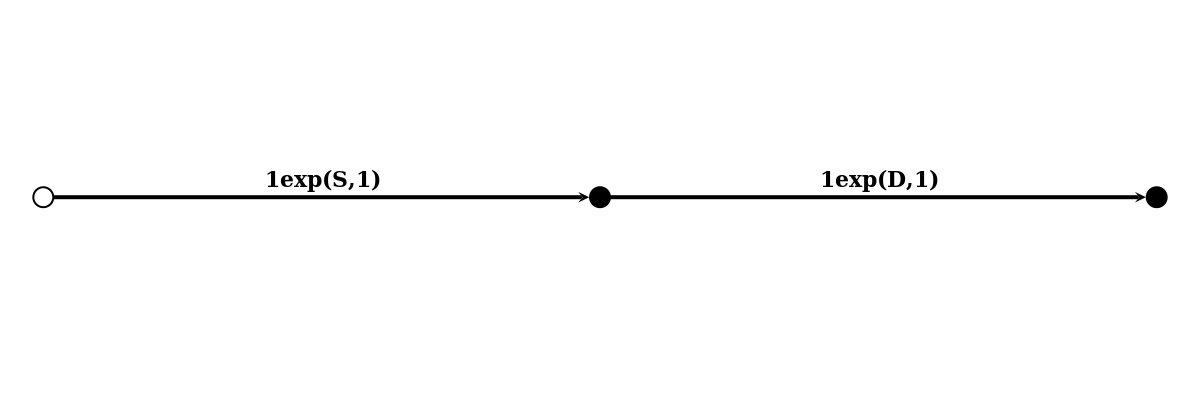
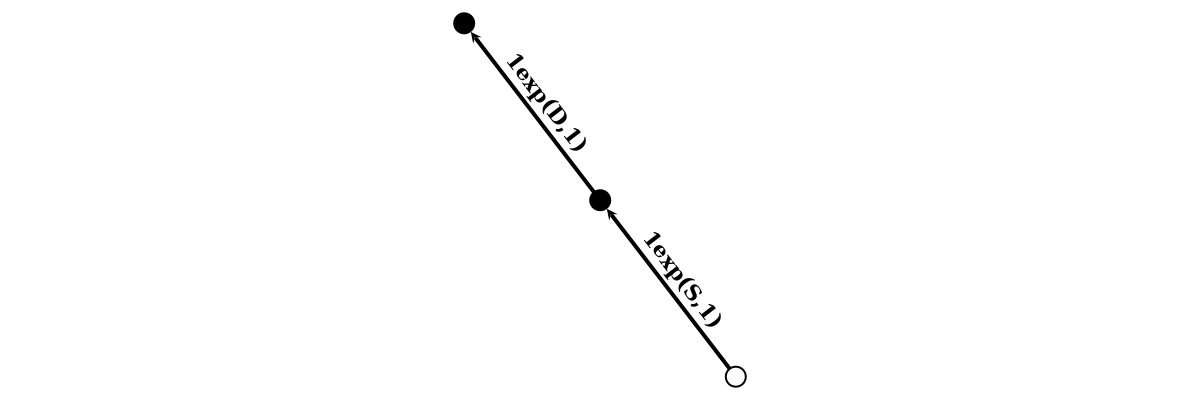
Small adjustments made

Changed region(s): [[0.0308, 0.12, 0.9867, 0.84], [0.5858, 0.84, 0.6167, 0.93], [0.37, 0.03, 0.4008, 0.12]]

diff --git a/KhT.py b/KhT.py
@@ -41,6 +41,10 @@ from itertools import groupby
 from itertools import product
 import itertools as itertools
 import numpy as np
+from graph_tool.all import *
+import math
+import cairo
+from IPython.display import IFrame
 
 ###########################
 ###########################
@@ -175,7 +179,6 @@ def components(clt1,clt2):
 def arc_to_involution(pairs):
     """convert a list of pairs of TEIs into an involution."""
     return [x[1] for x in sorted(pairs+[pair[::-1] for pair in pairs])]
-
 
 class Cobordism(object):
     """A cobordism from a crossingless tangle clt1=front to another clt2=back consists of 
@@ -390,7 +393,10 @@ class ChainComplex(object):
 # the first element is D if the morphism is a power of D, and S if it is a power of S
 # the second element is the power of the corresponding morphism
 # the third element is the coefficient of the morphism
+# Requires Cob to be a cobordism between 4 ended tangles
 def CobordismToDS(Cob):
+    if Cob.front.total !=2 or Cob.back.total !=2:
+        raise Exception("Cobordism to convert to DS is not between 4-ended tangles")
     DS = [] 
     for elem in Cob.decos:
         if len(elem) == 3: # elem is H^k S
@@ -407,7 +413,7 @@ def CobordismToDS(Cob):
                     break
             else:
                 DS.append(["D", elem[0]+1, elem[3]]) #otherwise add dot
-        else: # elem is H^k times id
+        elif len(elem) == 4 and elem[0] != 0: # elem is H^k times id
             for ds in DS:
                 if ds[0] == "S" and ds[1] == 2*elem[0]: #check if saddle part is already there
                     ds[2] += elem[3]
@@ -420,14 +426,17 @@ def CobordismToDS(Cob):
                     break
             else:
                 DS.append(["D", elem[0], elem[3]]) #otherwise add dot part
+        else: #elem is id, elem should be [0, 0, 0, n]
+            for ds in DS:
+                if ds[0] == "S" and ds[1] == 0: #check if id is already there
+                    ds[2] += elem[3]
+                    break
+            else:
+                DS.append(["S", 0, elem[3]]) #otherwise add id
     return DS
+        
 
 # graphical output for a crossingless tangle
-
-import math
-import cairo
-from IPython.display import IFrame
-
 
 def draw_tangle_ends(posx,posy,clt,h,ctx):
     
@@ -598,7 +607,7 @@ def DrawFourEndedChainComplex(complex, filename):
             print(complex.elements[i].arcs[0])
             raise Exception("CLT to label vertex is not a horizontal or vertical CLT")
     
-        Position[g.vertex(i)] = [50*(2*i+1), 200]
+        #Position[g.vertex(i)] = [50*(2*i+1), 200]
     
     Edge_labeling = g.new_edge_property("string") # construct edge labels with linear combinations of powers of S and D
     for i, j in itertools.product(range(0, size), range(0,size)):
@@ -611,7 +620,7 @@ def DrawFourEndedChainComplex(complex, filename):
                 if ds[2] != 0:
                     Edge_labeling[g.edge(i,j)] += str(ds[2]) + "exp(" + ds[0] + "," + str(ds[1]) +")"
 
-    graph_draw(g, pos = Position, vertex_color = "black", vertex_fill_color = Vertex_labeling, vertex_size = 20,\
+    graph_draw(g, vertex_color = "black", vertex_fill_color = Vertex_labeling, vertex_size = 20,\
                 edge_color = "black", edge_pen_width = 4.0, edge_text = Edge_labeling, edge_text_color = "black",\
                 edge_text_distance = 10, edge_font_weight = cairo.FONT_WEIGHT_BOLD, edge_font_size = 22, \
                 output_size=(1200, 400), output=filename)
@@ -639,9 +648,6 @@ def cap(n,i):
     """Create a CLT with n strands of which all are parallel except for the ith which is a cup"""
     return parallel(i-1)+CLT(0,2,[1,0],0)+parallel(n-i)
 
-from graph_tool.all import *
-
-
 
 b=CLT(2,2,[1,0,3,2],0)
 drawclt(b,"b")      
@@ -654,6 +660,7 @@ drawcob(Sbc,"Sbc")
 
 Scb=Cobordism(c,b,[[0,0,1]])
 drawcob(Scb,"Scb")
+MinusScb = Cobordism(c,b,[[0,0,-1]])
 
 #composition of morphisms
 #print((Sbc*Scb).decos)
@@ -703,14 +710,12 @@ drawcob(cob6,"cob6")
 
 A = [[ZeroCob, ZeroCob], [Sbc ,ZeroCob]]
 complex1 = ChainComplex([b,c], A)
-print('Complex1')
 complex1.ValidMorphism()
 
 CobRightDotMinusLeftDotVertical = Cobordism(c,c, [[0,0,1,1],[0,1,0,-1]])
 drawcob(CobRightDotMinusLeftDotVertical, "temporary1")
 
 complex2 = ChainComplex([b,c,c], [[ZeroCob, Sbc, ZeroCob],[ZeroCob, ZeroCob, CobRightDotMinusLeftDotVertical],[ZeroCob, ZeroCob, ZeroCob]])
-print('Complex2')
 complex2.ValidMorphism()
 drawcob(Sbc*CobRightDotMinusLeftDotVertical, "temporary2")
 RightDc = Cobordism(c,c,[[0,0,1,1]])
@@ -726,6 +731,18 @@ RightDcMinusH = Cobordism(c,c,[[0,0,1,1], [1,0,0,-1]])
 
 complex3 = ChainComplex([b,c,c,c], [[ZeroCob, Sbc, ZeroCob, ZeroCob],[ZeroCob,ZeroCob, RightDc, ZeroCob],[ZeroCob, ZeroCob, ZeroCob, RightDcMinusH],[ZeroCob, ZeroCob, ZeroCob, ZeroCob]])
 DrawFourEndedChainComplex(complex3, "complex3.png")
+complex3.ValidMorphism()
+
+complex4 = ChainComplex([c,b,c,c], [[ZeroCob, MinusScb, RightDc, ZeroCob], [ZeroCob, ZeroCob, ZeroCob, Sbc], [ZeroCob,ZeroCob, ZeroCob, Cobordism(c,c,[[0,0,0,1]])], [ZeroCob, ZeroCob, ZeroCob, ZeroCob]])
+DrawFourEndedChainComplex(complex4, "complex4.png")
+
+complex5 = ChainComplex([c,b,b,c,b,b], [[ZeroCob, Scb, ZeroCob, Cobordism(c, c, [[1,0,0,1]]), ZeroCob, ZeroCob],\
+                                        [ZeroCob, ZeroCob, Cobordism(b,b, [[0,0,1,1]]), ZeroCob, Cobordism(b,b,[[1, 0,0, -1]]), ZeroCob],\
+                                        [ZeroCob, ZeroCob, ZeroCob, ZeroCob, ZeroCob, Cobordism(b,b,[[1, 0,0,1]])],\
+                                        [ZeroCob, ZeroCob, ZeroCob, ZeroCob, Scb, ZeroCob],\
+                                        [ZeroCob, ZeroCob, ZeroCob, ZeroCob, ZeroCob, Cobordism(b,b, [[0,0,1,1]])],\
+                                        [ZeroCob, ZeroCob, ZeroCob, ZeroCob, ZeroCob, ZeroCob]])
+DrawFourEndedChainComplex(complex5, "complex5.png")
 
 # todo:
 # done) multiplication in cobordism category (medium)
